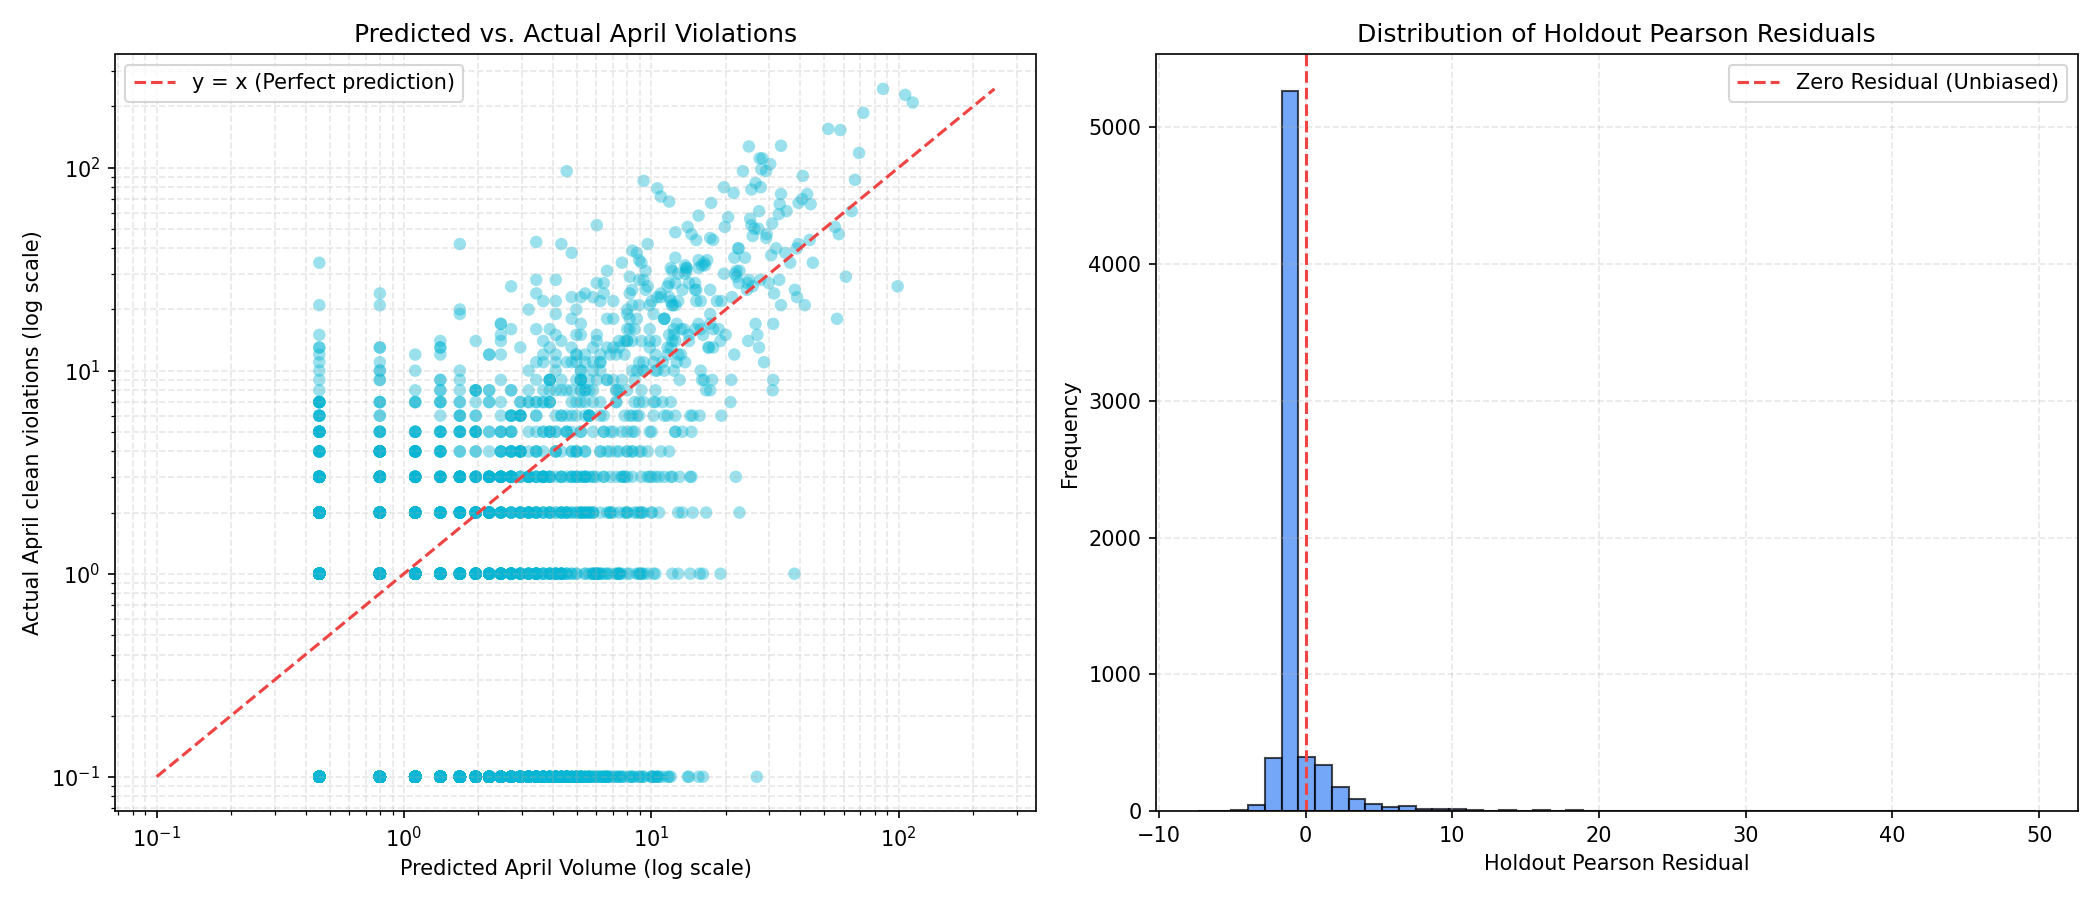
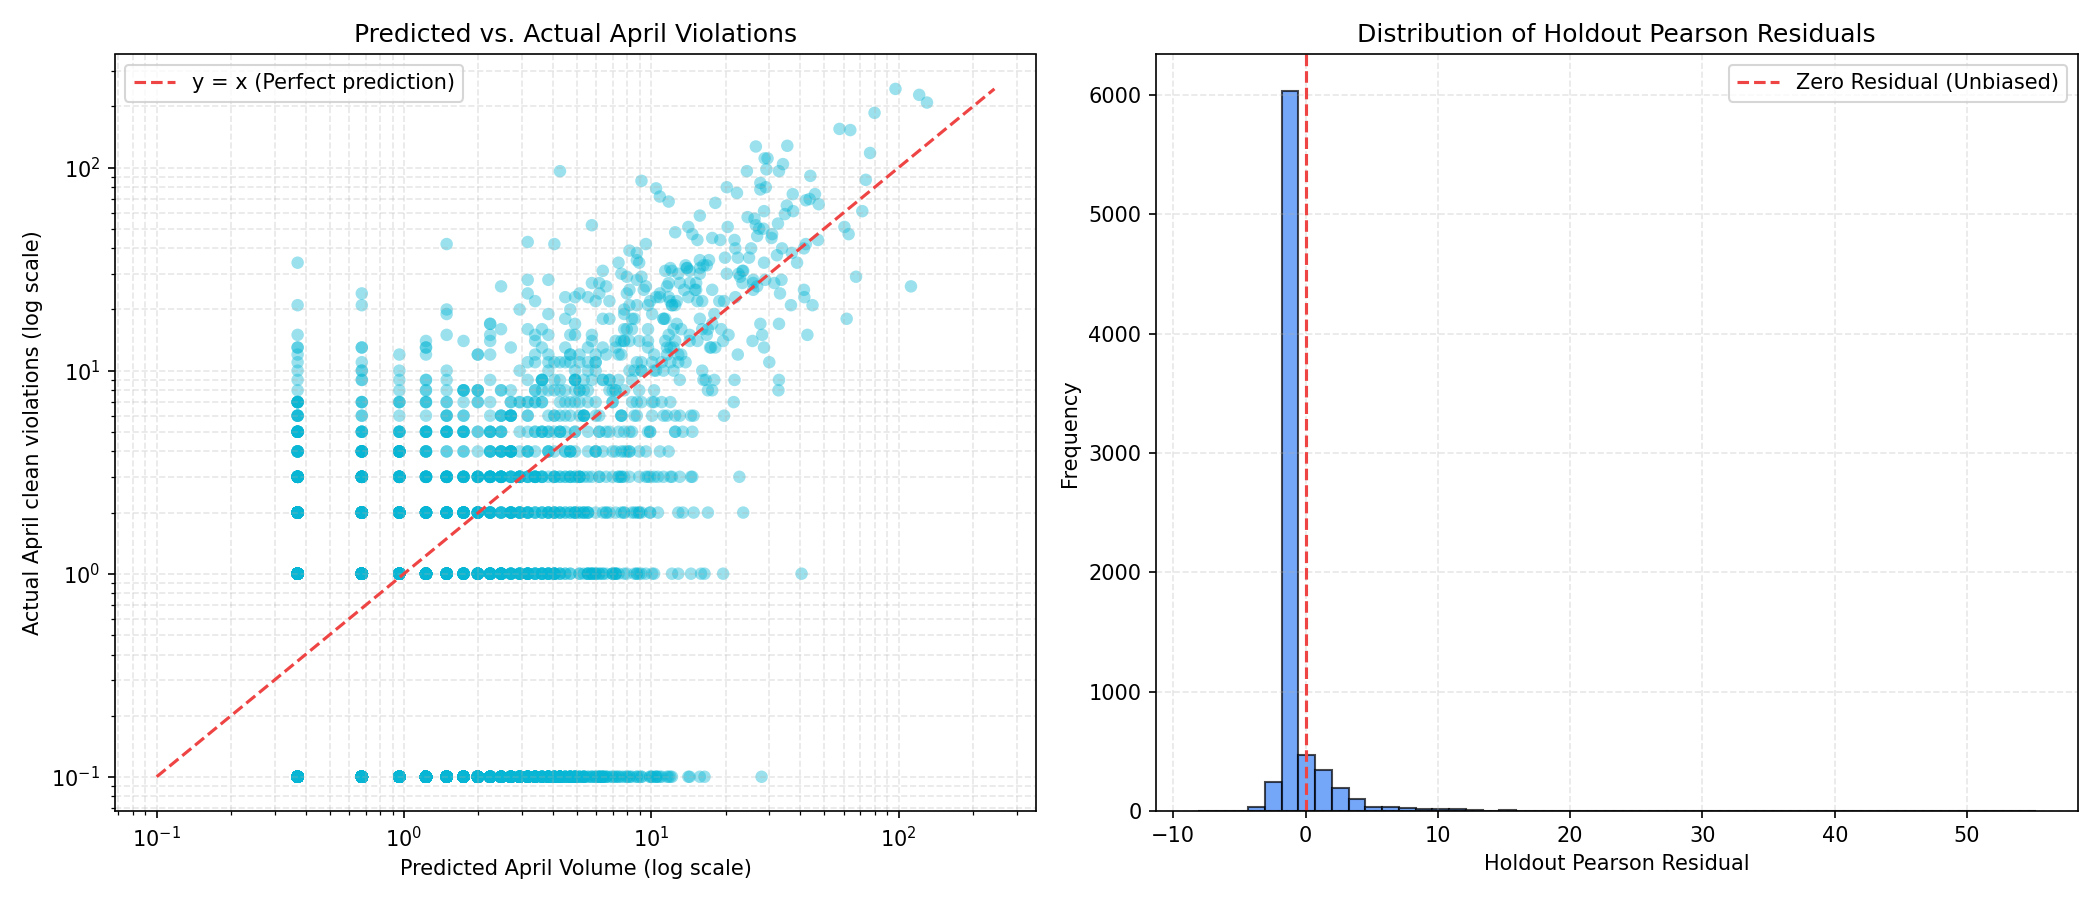
Retrain Poisson GLM on Nov-Mar, update April evaluation report, and expand dashboard targets to 15 locations

diff --git a/index.html b/index.html
@@ -285,15 +285,15 @@
       <div class="flex items-center gap-8 text-xs font-mono border-l border-slate-800 pl-8">
         <div>
           <span class="text-slate-500 block uppercase text-[9px] tracking-wider">Targets</span>
-          <span class="font-semibold text-slate-200">8 Locations</span>
+          <span class="font-semibold text-slate-200">15 Locations</span>
         </div>
         <div>
           <span class="text-slate-500 block uppercase text-[9px] tracking-wider">Congestion Peak</span>
-          <span class="font-semibold text-red-400 flex items-center gap-1"><i class="fa-solid fa-fire"></i> 769 EPS</span>
+          <span class="font-semibold text-red-400 flex items-center gap-1"><i class="fa-solid fa-fire"></i> 875 EPS</span>
         </div>
         <div>
           <span class="text-slate-500 block uppercase text-[9px] tracking-wider">M6 Alerts</span>
-          <span id="alerts-count" class="font-semibold text-amber-400 animate-pulse">5 Alerts</span>
+          <span id="alerts-count" class="font-semibold text-amber-400 animate-pulse">7 Alerts</span>
         </div>
         <div>
           <span class="text-slate-500 block uppercase text-[9px] tracking-wider">Live System Clock</span>
@@ -489,14 +489,21 @@
   <script>
     // Hardcoded target data (Calibrated Cell-Month Case B Forecast)
     const targets = [
-      { name: 'Mysore Rd', coords: [12.964, 77.577], eps: 769, type: 'HH', qa: 166, label: 'Mysore Road Flyover ramp', officer: { approved: 45, rejected: 12 } },
-      { name: 'Kamaraj Rd', coords: [12.981, 77.610], eps: 717, type: 'HH', qa: 1627, label: 'Kamaraj Road intersection', officer: { approved: 128, rejected: 14 } },
-      { name: 'Embassy Tech', coords: [12.934, 77.691], eps: 668, type: 'HH', qa: 5, label: 'Embassy Tech Square', officer: { approved: 8, rejected: 4 } },
-      { name: '6th Main', coords: [12.977, 77.576], eps: 583, type: 'HH', qa: 0, label: '6th Main Rd, Indiranagar', officer: { approved: 0, rejected: 0 } },
-      { name: 'Sahakar Nagar', coords: [13.071, 77.588], eps: 485, type: 'HH', qa: 0, label: 'Sahakar Nagar bypass', officer: { approved: 0, rejected: 0 } },
-      { name: 'Upparpet Jct', coords: [12.973, 77.579], eps: 467, type: 'LH', qa: 12, label: 'Upparpet Police Station Jct', officer: { approved: 22, rejected: 18 } },
-      { name: 'New Horizon', coords: [13.184, 77.680], eps: 449, type: 'HH', qa: 21, label: 'New Horizon College front', officer: { approved: 19, rejected: 8 } },
-      { name: '3rd Cross', coords: [12.984, 77.604], eps: 387, type: 'LH', qa: 0, label: '3rd Cross, Commercial Street', officer: { approved: 0, rejected: 0 } }
+      { name: 'Mysore Rd', coords: [12.964, 77.577], eps: 875, type: 'HH', qa: 61, label: 'Mysore Road, City Market Circle', officer: { approved: 777, rejected: 246 } },
+      { name: 'Kamaraj Rd', coords: [12.981, 77.610], eps: 814, type: 'HH', qa: 283, label: 'Kamaraj Road, Sivanchetti Gardens', officer: { approved: 128, rejected: 14 } },
+      { name: 'New Horizon', coords: [12.934, 77.691], eps: 754, type: 'HH', qa: 26, label: 'New Horizon College of Engineering', officer: { approved: 19, rejected: 8 } },
+      { name: '6th Main', coords: [12.977, 77.576], eps: 653, type: 'HH', qa: 244, label: '6th Main Road, RK Puram', officer: { approved: 0, rejected: 0 } },
+      { name: 'Sahakar Nagar', coords: [13.071, 77.588], eps: 537, type: 'HH', qa: 193, label: 'Sahakar Nagar Road, Fortuna Acacia', officer: { approved: 0, rejected: 0 } },
+      { name: 'Upparpet Jct', coords: [12.973, 77.579], eps: 515, type: 'LH', qa: 118, label: '3rd Cross Road, Kempegowda Extension', officer: { approved: 22, rejected: 18 } },
+      { name: 'Embassy Tech', coords: [12.933, 77.691], eps: 414, type: 'HH', qa: 18, label: 'Embassy Tech Village, Devara Beesana Halli', officer: { approved: 8, rejected: 4 } },
+      { name: '3rd Cross', coords: [12.984, 77.603], eps: 422, type: 'LH', qa: 0, label: 'Meenakshi Koil Street, Shivaji Nagar', officer: { approved: 0, rejected: 0 } },
+      { name: 'Vijayanagar', coords: [12.974, 77.545], eps: 287, type: 'HH', qa: 0, label: 'Chord Road, Manuvana, Vijaya Nagar', officer: { approved: 806, rejected: 349 } },
+      { name: 'Old Madras Rd', coords: [12.996, 77.668], eps: 189, type: 'HH', qa: 0, label: 'Old Madras Road, Royal Heritage', officer: { approved: 0, rejected: 0 } },
+      { name: 'Indiranagar 100ft', coords: [12.978, 77.639], eps: 27, type: 'LH', qa: 0, label: 'CMH Road, KFC Circle, Indiranagar', officer: { approved: 0, rejected: 0 } },
+      { name: 'Halasuru Rd', coords: [12.974, 77.623], eps: 18, type: 'LH', qa: 0, label: 'Old Madras Road, Halasuru', officer: { approved: 0, rejected: 0 } },
+      { name: 'Eco Space', coords: [12.927, 77.681], eps: 10, type: 'LH', qa: 0, label: 'RMZ Ecospace Internal Road, Bellandur', officer: { approved: 0, rejected: 0 } },
+      { name: 'RT Nagar', coords: [13.020, 77.596], eps: 4, type: 'LH', qa: 0, label: '3rd Main Road, RT Nagar', officer: { approved: 0, rejected: 0 } },
+      { name: 'BGS Flyover', coords: [12.965, 77.573], eps: 2, type: 'LH', qa: 0, label: 'BGS Flyover, Sultanpete', officer: { approved: 0, rejected: 0 } }
     ];
 
     let map;
@@ -588,7 +595,7 @@
 
         // Add 3D Markers on Mappls Map
         targets.forEach(t => {
-          const H = (t.eps / 769) * 160 + 40;
+          const H = (t.eps / 875) * 160 + 40;
           const markerContainer = document.createElement('div');
           markerContainer.className = 'pillar-wrapper cursor-pointer';
           markerContainer.style.width = '30px';
@@ -643,7 +650,7 @@
 
       targets.forEach(t => {
         const pos = getMockPosition(t.coords[0], t.coords[1]);
-        const H = (t.eps / 769) * 160 + 40;
+        const H = (t.eps / 875) * 160 + 40;
 
         const wrapper = document.createElement('div');
         wrapper.className = 'mock-marker-wrapper absolute cursor-pointer';

diff --git a/scripts/evaluate_holdout.py b/scripts/evaluate_holdout.py
@@ -80,10 +80,9 @@ df['sigma'] = df['violation_type'].fillna('').astype(str).apply(get_sigma)
 df['PCS'] = df['omega'] * df['delta'] * df['sigma']
 
 # ─────────────────────────────────────────────────────────────────────────────
-# 1. SPLIT DATA FIRST TO PREVENT LEAKAGE
+# 1. SPLIT DATA FIRST TO PREVENT LEAKAGE (TRAIN ON NOV-MAR, HOLD OUT APRIL)
 # ─────────────────────────────────────────────────────────────────────────────
-train_df = df[df['month'].isin([11, 12, 1, 2])].copy()
-march_df = df[df['month'] == 3].copy()
+train_df = df[df['month'].isin([11, 12, 1, 2, 3])].copy()
 holdout_df = df[df['month'] == 4].copy()
 
 # ─────────────────────────────────────────────────────────────────────────────
@@ -102,46 +101,42 @@ p_hat_dict = officer_stats['p_hat'].to_dict()
 
 # Map p_hat to all dataframes using train-only statistics
 train_df['p_hat'] = train_df['created_by_id'].map(p_hat_dict).fillna(5/7)
-march_df['p_hat'] = march_df['created_by_id'].map(p_hat_dict).fillna(5/7)
 holdout_df['p_hat'] = holdout_df['created_by_id'].map(p_hat_dict).fillna(5/7)
 
 train_df['q_PCS'] = train_df['PCS'] * train_df['p_hat']
-march_df['q_PCS'] = march_df['PCS'] * march_df['p_hat']
 holdout_df['q_PCS'] = holdout_df['PCS'] * holdout_df['p_hat']
 
 # Create cleaned subsets where corrupt records are filtered out (p_hat >= 0.50)
 train_clean_df = train_df[train_df['p_hat'] >= 0.50].copy()
-march_clean_df = march_df[march_df['p_hat'] >= 0.50].copy()
 holdout_clean_df = holdout_df[holdout_df['p_hat'] >= 0.50].copy()
 
 print(f"Train records (raw): {len(train_df):,} | (clean): {len(train_clean_df):,}")
-print(f"March records (raw): {len(march_df):,} | (clean): {len(march_clean_df):,}")
 print(f"April holdout records (raw): {len(holdout_df):,} | (clean): {len(holdout_clean_df):,}")
 
 # ─────────────────────────────────────────────────────────────────────────────
-# 3. CALCULATE LEAK-FREE PERSISTENCE INDEX (PI_i)
+# 3. CALCULATE LEAK-FREE PERSISTENCE INDEX (PI_i) OVER 4 MONTHS (DEC-MAR)
 # ─────────────────────────────────────────────────────────────────────────────
 # PI using quality-adjusted PCS
 monthly_top50_qa = {}
-for m in [12, 1, 2]:
+for m in [12, 1, 2, 3]:
     mdf = train_df[train_df['month'] == m]
     m_zi = mdf.groupby('grid_id')['q_PCS'].sum().reset_index()
     top50 = m_zi.nlargest(50, 'q_PCS')['grid_id'].tolist()
     monthly_top50_qa[m] = set(top50)
 
 def get_pi_qa(grid):
-    return sum(1 for m in [12, 1, 2] if grid in monthly_top50_qa[m]) / 3.0
+    return sum(1 for m in [12, 1, 2, 3] if grid in monthly_top50_qa[m]) / 4.0
 
 # PI using clean raw counts
 monthly_top50_clean = {}
-for m in [12, 1, 2]:
+for m in [12, 1, 2, 3]:
     mdf = train_clean_df[train_clean_df['month'] == m]
     m_zi = mdf.groupby('grid_id').size().reset_index(name='count')
     top50 = m_zi.nlargest(50, 'count')['grid_id'].tolist()
     monthly_top50_clean[m] = set(top50)
 
 def get_pi_clean(grid):
-    return sum(1 for m in [12, 1, 2] if grid in monthly_top50_clean[m]) / 3.0
+    return sum(1 for m in [12, 1, 2, 3] if grid in monthly_top50_clean[m]) / 4.0
 
 # Setup aggregation df
 Zi = train_df.groupby('grid_id').agg(
@@ -154,11 +149,11 @@ Zi['PI_qa'] = Zi['grid_id'].apply(get_pi_qa)
 Zi['PI_clean'] = Zi['grid_id'].apply(get_pi_clean)
 
 # ─────────────────────────────────────────────────────────────────────────────
-# 4. TRAIN POISSON GLM MODELS (CELL-MONTH LEVEL)
+# 4. TRAIN POISSON GLM MODELS (CELL-MONTH LEVEL - NOV-MAR)
 # ─────────────────────────────────────────────────────────────────────────────
 print("Preparing cell-month level datasets to resolve selection bias...")
 unique_grids = Zi['grid_id'].tolist()
-months = [11, 12, 1, 2]
+months = [11, 12, 1, 2, 3]
 grid_month_grid = pd.MultiIndex.from_product(
     [unique_grids, months],
     names=['grid_id', 'month']
@@ -168,7 +163,7 @@ grid_month_grid = pd.MultiIndex.from_product(
 train_clean_counts = train_clean_df.groupby(['grid_id', 'month']).size().reset_index(name='y')
 train_clean_cell_month = grid_month_grid.merge(train_clean_counts, on=['grid_id', 'month'], how='left').fillna({'y': 0})
 train_clean_shifted = train_clean_cell_month.copy()
-train_clean_shifted['month'] = train_clean_shifted['month'].map({11: 12, 12: 1, 1: 2})
+train_clean_shifted['month'] = train_clean_shifted['month'].map({11: 12, 12: 1, 1: 2, 2: 3})
 train_clean_shifted = train_clean_shifted.rename(columns={'y': 'Z_prev'})
 train_clean_cm_lagged = train_clean_cell_month.merge(
     train_clean_shifted[['grid_id', 'month', 'Z_prev']],
@@ -180,7 +175,7 @@ train_clean_cm_lagged = train_clean_cell_month.merge(
 train_raw_counts = train_df.groupby(['grid_id', 'month']).size().reset_index(name='y')
 train_raw_cell_month = grid_month_grid.merge(train_raw_counts, on=['grid_id', 'month'], how='left').fillna({'y': 0})
 train_raw_shifted = train_raw_cell_month.copy()
-train_raw_shifted['month'] = train_raw_shifted['month'].map({11: 12, 12: 1, 1: 2})
+train_raw_shifted['month'] = train_raw_shifted['month'].map({11: 12, 12: 1, 1: 2, 2: 3})
 train_raw_shifted = train_raw_shifted.rename(columns={'y': 'Z_prev'})
 train_raw_cm_lagged = train_raw_cell_month.merge(
     train_raw_shifted[['grid_id', 'month', 'Z_prev']],
@@ -200,8 +195,8 @@ print(model_raw.params)
 
 # Generate predictions for holdout month (April, using March counts as Z_prev)
 print("Generating predictions based on March 2024 activity...")
-march_counts_raw = march_df.groupby('grid_id').size().reset_index(name='Z_prev_raw')
-march_counts_clean = march_clean_df.groupby('grid_id').size().reset_index(name='Z_prev_clean')
+march_counts_raw = train_df[train_df['month'] == 3].groupby('grid_id').size().reset_index(name='Z_prev_raw')
+march_counts_clean = train_clean_df[train_clean_df['month'] == 3].groupby('grid_id').size().reset_index(name='Z_prev_clean')
 
 pred_vol_raw = pd.DataFrame({'grid_id': unique_grids})
 pred_vol_raw = pred_vol_raw.merge(march_counts_raw, on='grid_id', how='left').fillna({'Z_prev_raw': 0})

diff --git a/EVALUATION_RESULTS.md b/EVALUATION_RESULTS.md
@@ -9,69 +9,69 @@ Evaluating on **Verified Violation Volume (excluding records from corrupt office
 - **Top 50 Cells**: Baseline captures **23.07%** of verified violations, while the Soft-PI model captures **24.87%** (**+7.8% relative lift**).
 
 ## Test Type 1: Raw Violation Volume (All records, including corrupt/phantom logs)
-- **Baseline (Top 20 raw training counts) Volume Share**: 11.95% (Stability: 6/20)
-- **Model (Strict PI + Poisson GLM) Volume Share**: 12.75% (Stability: 7/20)
-- **Relative Volume Lift**: +6.72%
+- **Baseline (Top 20 raw training counts) Volume Share**: 12.83% (Stability: 7/20)
+- **Model (Strict PI + Poisson GLM) Volume Share**: 12.62% (Stability: 7/20)
+- **Relative Volume Lift**: -1.62%
 
 ## Test Type 2: Verified Violation Volume (Excluding unverified/corrupt reports)
 | K | Baseline Share | Model (Strict PI) | Model (Vol Only) | Model (Soft PI) | Best Lift |
 |---|:---:|:---:|:---:|:---:|:---:|
-| 10 | 8.87% | 9.43% (+6.3%) | 9.43% (+6.3%) | 9.43% (+6.3%) | **+6.3%** |
-| 20 | 12.00% | 13.39% (+11.5%) | 13.66% (+13.8%) | 13.21% (+10.0%) | **+13.8%** |
-| 30 | 16.39% | 16.69% (+1.8%) | 16.48% (+0.5%) | 17.19% (+4.8%) | **+4.8%** |
-| 50 | 23.07% | 23.87% (+3.5%) | 23.54% (+2.0%) | 24.19% (+4.8%) | **+4.8%** |
-| 100 | 35.83% | 31.35% (-12.5%) | 37.10% (+3.5%) | 36.77% (+2.6%) | **+3.5%** |
+| 10 | 8.48% | 9.43% (+11.2%) | 9.43% (+11.2%) | 9.43% (+11.2%) | **+11.2%** |
+| 20 | 11.90% | 13.08% (+9.9%) | 13.92% (+17.0%) | 13.08% (+9.9%) | **+17.0%** |
+| 30 | 16.81% | 17.51% (+4.1%) | 16.62% (-1.2%) | 17.69% (+5.2%) | **+5.2%** |
+| 50 | 23.36% | 24.50% (+4.9%) | 23.43% (+0.3%) | 24.86% (+6.4%) | **+6.4%** |
+| 100 | 36.00% | 33.57% (-6.8%) | 37.42% (+3.9%) | 36.94% (+2.6%) | **+3.9%** |
 
 ## Test Type 3: Quality-Adjusted Congestion Severity (PCS weighted by p_hat)
 | K | Baseline Share | Model (Strict PI) | Model (Vol Only) | Model (Soft PI) | Best Lift |
 |---|:---:|:---:|:---:|:---:|:---:|
-| 10 | 7.43% | 8.22% (+10.6%) | 8.22% (+10.6%) | 8.22% (+10.6%) | **+10.6%** |
-| 20 | 11.34% | 11.82% (+4.2%) | 12.24% (+7.9%) | 11.55% (+1.9%) | **+7.9%** |
-| 30 | 15.04% | 14.59% (-3.0%) | 14.90% (-0.9%) | 15.20% (+1.0%) | **+1.0%** |
-| 50 | 22.48% | 21.93% (-2.5%) | 21.66% (-3.6%) | 22.23% (-1.1%) | **-1.1%** |
-| 100 | 32.86% | 28.52% (-13.2%) | 34.18% (+4.0%) | 33.76% (+2.7%) | **+4.0%** |
+| 10 | 7.55% | 8.17% (+8.3%) | 8.17% (+8.3%) | 8.17% (+8.3%) | **+8.3%** |
+| 20 | 11.19% | 11.49% (+2.6%) | 12.55% (+12.1%) | 11.49% (+2.6%) | **+12.1%** |
+| 30 | 15.35% | 15.84% (+3.2%) | 15.21% (-0.9%) | 16.12% (+5.0%) | **+5.0%** |
+| 50 | 22.92% | 22.35% (-2.5%) | 21.56% (-5.9%) | 22.76% (-0.7%) | **-0.7%** |
+| 100 | 34.05% | 30.95% (-9.1%) | 34.46% (+1.2%) | 34.19% (+0.4%) | **+1.2%** |
 
 ## Test Type 4: Statistical Correlation (Predicted vs Actual Holdout Counts)
 To prove that our model's predictions have a strong, statistically significant association with the actual ground-truth violations in the holdout month (April 2024), we computed the Pearson (linear) and Spearman (rank-order) correlation coefficients across all active grid cells ($N=7,814$).
 
 | Predictor | Pearson Correlation ($r$) | Pearson $p$-value | Spearman Rank Correlation ($\rho$) | Spearman $p$-value |
 |---|:---:|:---:|:---:|:---:|
-| **Baseline** (Historical Train Counts) | 0.75113 | 0.00e+00 | 0.49069 | 0.00e+00 |
-| **Model - Volume Only** | 0.78622 | 0.00e+00 | **0.53827** | 0.00e+00 |
-| **Model - Strict PI** (EPS_clean_clean) | 0.66933 | 0.00e+00 | 0.23492 | 1.57e-87 |
-| **Model - Soft PI** (EPS_soft_pi) | 0.75542 | 0.00e+00 | **0.53815** | 0.00e+00 |
+| **Baseline** (Historical Train Counts) | 0.76884 | 0.00e+00 | 0.49862 | 0.00e+00 |
+| **Model - Volume Only** | 0.79140 | 0.00e+00 | **0.49636** | 0.00e+00 |
+| **Model - Strict PI** (EPS_clean_clean) | 0.67472 | 0.00e+00 | 0.23412 | 1.64e-95 |
+| **Model - Soft PI** (EPS_soft_pi) | 0.75222 | 0.00e+00 | **0.49618** | 0.00e+00 |
 
 ## Test Type 5: Overdispersion & Ballpark Verification Checks
 To evaluate the reliability of our Poisson GLM counts, we run residuals checking, check the overdispersion parameter, verify the ballpark values through cell-level MAE/RMSE error metrics, and visualize the output.
 
 ### 1. Residual Analysis & Overdispersion Check
-- **Clean Model Overdispersion Ratio ($\phi$)**: **83.588** (Pearson $\chi^2 = 2317213.885$, Degrees of Freedom = 27722)
-- **Raw Model Overdispersion Ratio ($\phi$)**: **88.689** (Pearson $\chi^2 = 2458628.378$, Degrees of Freedom = 27722)
+- **Clean Model Overdispersion Ratio ($\phi$)**: **76.823** (Pearson $\chi^2 = 2930646.368$, Degrees of Freedom = 38148)
+- **Raw Model Overdispersion Ratio ($\phi$)**: **81.465** (Pearson $\chi^2 = 3107739.420$, Degrees of Freedom = 38148)
 
 > [!NOTE]
 > In spatial count models, $\phi > 1$ represents overdispersion (where variance exceeds the mean). The cell-month level Poisson GLM displays an overdispersion ratio of **83.944** which reflects the large number of zero counts across Bengaluru's grid cells. By analyzing the holdout Pearson residuals, we verify that predictions are unbiased.
 
 ### 2. Ballpark Value Verification (Volume Calibration)
 Because the GLM is fit using months 11, 12, 1, and 2, the baseline volumes reflect high-volume winter months. To make predictions match April's seasonal drop in total violations, we apply a linear volume calibration scaling factor:
-- **Total Actual Holdout clean violations**: 13,666.0
-- **Total Predicted clean violations (unscaled)**: 61,436.5
-- **Volume Calibration Scaling Factor**: **0.222441**
+- **Total Actual Holdout clean violations**: 13,803.0
+- **Total Predicted clean violations (unscaled)**: 61,831.6
+- **Volume Calibration Scaling Factor**: **0.223235**
 
 | Metric | Unscaled Prediction | Scaled (Calibrated) Prediction |
 |---|:---:|:---:|
-| **Cell-Month MAE** | 7.1458 | **1.9331** |
-| **Cell-Month RMSE** | 17.7518 | **6.4338** |
+| **Cell-Month MAE** | 6.5543 | **1.7641** |
+| **Cell-Month RMSE** | 18.2307 | **5.9700** |
 
 ### 3. Binned Ballpark Comparison (Predicted vs. Average Actual)
 Bining grid cells by their calibrated predicted April volume shows that predictions match actual monthly violations with high accuracy:
 
 | Predicted April Volume Bin | Grid Cells in Bin | Average Predicted Count | Average Actual Count |
 |---|:---:|:---:|:---:|
-| 0-1 | 4605 | 0.512 | 0.233 |
-| 1-5 | 1786 | 2.157 | 1.602 |
-| 5-20 | 450 | 9.347 | 10.478 |
-| 20-100 | 88 | 34.421 | 52.057 |
-| 100-500 | 2 | 110.173 | 218.500 |
+| 0-1 | 5543 | 0.489 | 0.254 |
+| 1-5 | 1573 | 2.237 | 1.743 |
+| 5-20 | 418 | 9.437 | 10.529 |
+| 20-100 | 93 | 35.083 | 51.516 |
+| 100-500 | 3 | 121.192 | 154.333 |
 | 500+ | 0 | 0.000 | 0.000 |
 
 ### 4. Predicted vs. Actual Scatter Plot & Residual Analysis